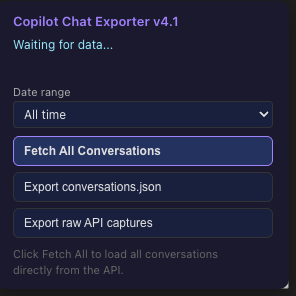
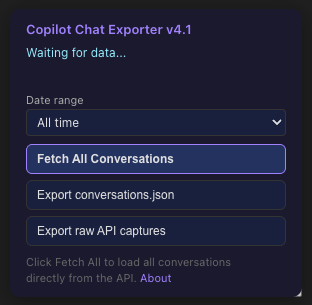
Add minimize/maximize functionality and update UI elements for Copilot Chat Exporter

diff --git a/copilot_chat_capture.user.js b/copilot_chat_capture.user.js
@@ -3,6 +3,7 @@
 // @namespace    https://github.com/ai-experiments
 // @version      4.1
 // @description  Export Microsoft 365 Copilot conversations as ChatGPT-compatible conversations.json
+// @author       ingo
 // @match        https://m365.cloud.microsoft/
 // @match        https://m365.cloud.microsoft/chat*
 // @match        https://microsoft365.com/chat*
@@ -681,6 +682,50 @@
           font-family: -apple-system, BlinkMacSystemFont, "Segoe UI", Roboto, sans-serif;
           font-size: 13px;
         }
+        #copilot-export-title-row {
+          display: flex;
+          align-items: center;
+          justify-content: space-between;
+          margin-bottom: 8px;
+        }
+        #copilot-export-minimize-btn {
+          background: transparent;
+          border: none;
+          color: #555;
+          cursor: pointer;
+          font-size: 16px;
+          padding: 0 0 0 8px;
+          line-height: 1;
+          opacity: 0.5;
+          transition: opacity 0.15s;
+        }
+        #copilot-export-minimize-btn:hover {
+          opacity: 1;
+          color: #9d8aff;
+        }
+        #copilot-export-icon {
+          display: none;
+          width: 48px;
+          height: 48px;
+          background: linear-gradient(135deg, #a855f7 0%, #6366f1 100%);
+          border-radius: 50%;
+          cursor: pointer;
+          box-shadow: 0 4px 20px rgba(0,0,0,0.4);
+          align-items: center;
+          justify-content: center;
+          font-size: 24px;
+          color: white;
+          transition: transform 0.2s;
+        }
+        #copilot-export-icon:hover {
+          transform: scale(1.1);
+        }
+        #copilot-export-ui.minimized #copilot-export-panel {
+          display: none;
+        }
+        #copilot-export-ui.minimized #copilot-export-icon {
+          display: flex;
+        }
         #copilot-export-panel {
           background: #1a1a2e;
           color: #e0e0e0;
@@ -692,7 +737,6 @@
         #copilot-export-panel .title {
           font-weight: 600;
           font-size: 13px;
-          margin-bottom: 8px;
           color: #9d8aff;
         }
         #copilot-export-badge {
@@ -779,8 +823,12 @@
           min-width: 0;
         }
       </style>
+      <div id="copilot-export-icon" title="Open Copilot Exporter">📥</div>
       <div id="copilot-export-panel">
-        <div class="title">Copilot Chat Exporter v4.1</div>
+        <div id="copilot-export-title-row">
+          <div class="title">Copilot Chat Exporter v4.1</div>
+          <button id="copilot-export-minimize-btn" title="Minimize" style="width:30px">−</button>
+        </div>
         <div id="copilot-export-badge">Waiting for data...</div>
         <div id="copilot-export-status"></div>
         <div id="copilot-date-row">
@@ -801,7 +849,7 @@
         <button id="copilot-btn-fetchall" class="primary">Fetch All Conversations</button>
         <button id="copilot-btn-export">Export conversations.json</button>
         <button id="copilot-btn-raw">Export raw API captures</button>
-        <div class="hint">Click Fetch All to load all conversations<br>directly from the API.</div>
+        <div class="hint">Click Fetch All to load all conversations<br>directly from the API. <a href="https://github.com/ingo/m365_copilot_chat_exporter" target="_blank" style="color: #9d8aff; text-decoration: none;">About</a></div>
       </div>
     `;
 
@@ -814,25 +862,20 @@
       const customRow = document.getElementById("copilot-custom-dates");
       customRow.classList.toggle("visible", e.target.value === "custom");
     });
-  }
 
-  // Add 'About' link to the UI
-  const aboutLink = document.createElement('a');
-  aboutLink.href = 'https://github.com/ingo/m365_copilot_chat_exporter';
-  aboutLink.textContent = 'About';
-  aboutLink.style.position = 'fixed';
-  aboutLink.style.bottom = '10px';
-  aboutLink.style.right = '10px';
-  aboutLink.style.zIndex = '1000';
-  aboutLink.style.backgroundColor = '#fff';
-  aboutLink.style.padding = '5px 10px';
-  aboutLink.style.border = '1px solid #ccc';
-  aboutLink.style.borderRadius = '5px';
-  aboutLink.style.textDecoration = 'none';
-  aboutLink.style.color = '#000';
-  aboutLink.style.fontSize = '14px';
-  aboutLink.style.boxShadow = '0 2px 5px rgba(0, 0, 0, 0.2)';
-  document.body.appendChild(aboutLink);
+    // Minimize/maximize toggle
+    const ui = document.getElementById("copilot-export-ui");
+    const minimizeBtn = document.getElementById("copilot-export-minimize-btn");
+    const icon = document.getElementById("copilot-export-icon");
+
+    minimizeBtn.addEventListener("click", () => {
+      ui.classList.add("minimized");
+    });
+
+    icon.addEventListener("click", () => {
+      ui.classList.remove("minimized");
+    });
+  }
 
   // ── Init ──────────────────────────────────────────────────────────
   console.log("[Copilot Export v4.1] Loaded.");
